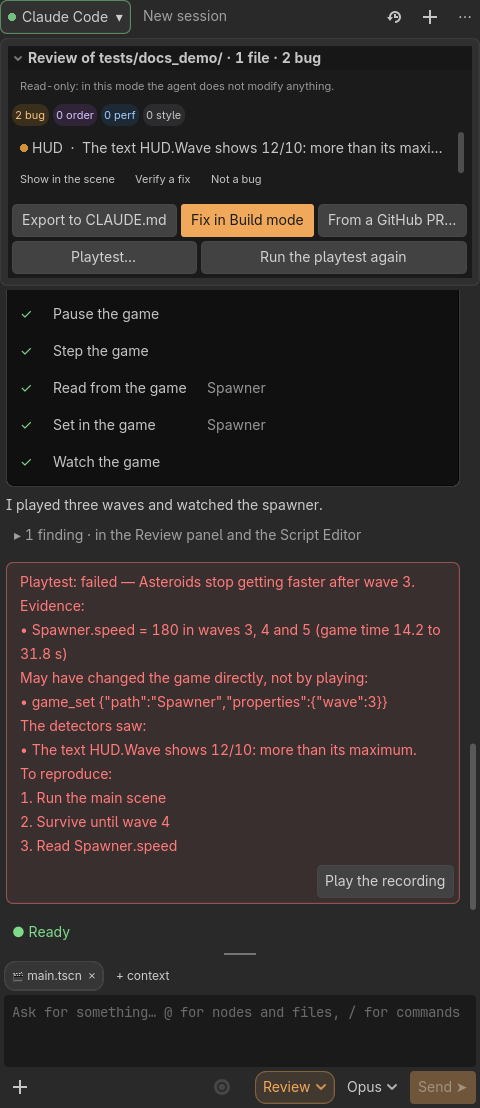
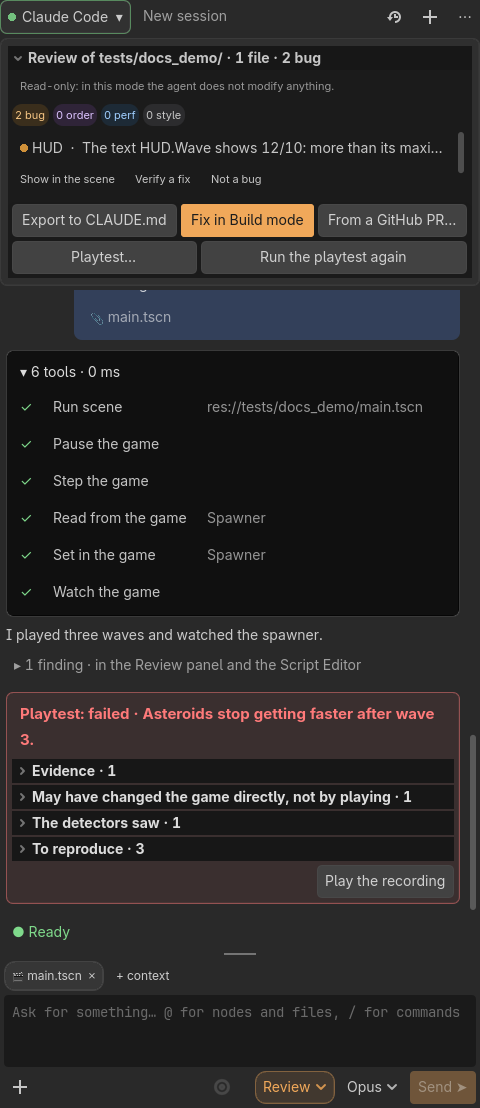
m12-42: el veredicto de un playtest es una tarjeta con jerarquía (resultado y motivo en el título, avisos en el cuerpo, evidencia/cambios directos/detectores/pasos como secciones plegables con cantidad), ancha y angosta; capturas de la guía en en/es

Changed region(s): [[0.0, 0.2455, 0.9688, 0.7978], [0.9688, 0.6444, 1.0, 0.6751]]

diff --git a/CHANGELOG.md b/CHANGELOG.md
@@ -4,6 +4,10 @@ All notable changes to Godot Agent Harness. The release workflow publishes the *
 
 ## [Unreleased]
 
+### Fixed
+
+- A playtest verdict is now a card with a hierarchy instead of a block of red text: the result and the reason are the title, what to read before trusting it stays in the body, and the evidence, the direct changes, what the detectors saw and the steps to reproduce are collapsible sections with their counts. It fits a narrow dock.
+
 ## [0.1.19] - 2026-11-10
 
 ### Added
